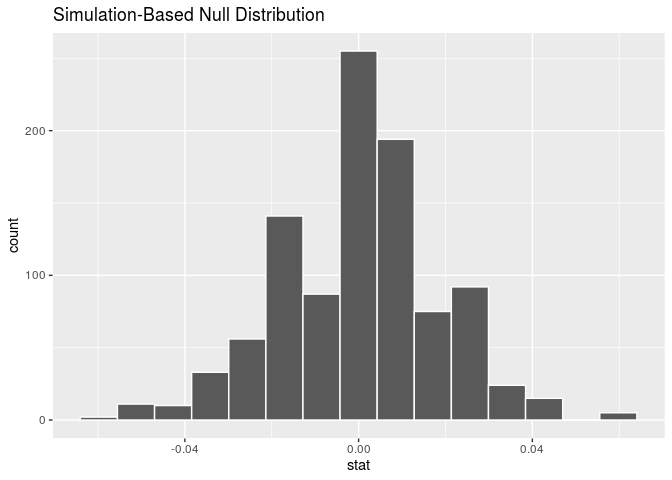
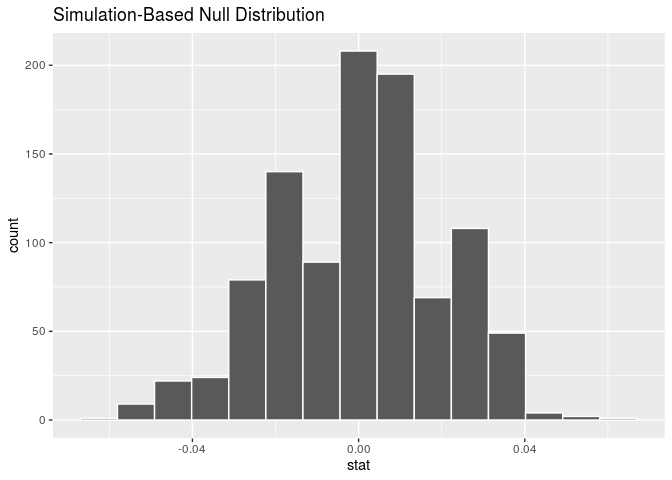
Finished Q2

diff --git a/data-analysis/data-analysis.md b/data-analysis/data-analysis.md
@@ -297,6 +297,7 @@ fct_africa <- africa %>%
 ```
 
 ``` r
+set.seed(1)
 null_dist <- fct_africa %>%
   specify(response = systemic_crisis, explanatory = independence, success = "1") %>%
   hypothesize(null = "independence") %>%
@@ -333,6 +334,22 @@ To answer this question, we need to label North African and sub-Saharan
 countries in our Africa dataset.
 
 ``` r
+fct_africa <- fct_africa %>%
+  mutate(region = case_when(
+    country == "Algeria" ~ "n",
+    country == "Angola" ~ "s",
+    country == "Central African Republic" ~ "s",
+    country == "Egypt" ~ "n",
+    country == "Ivory Coast" ~ "s",
+    country == "Kenya" ~ "s",
+    country == "Mauritius" ~ "s",
+    country == "Morocco" ~ "n",
+    country == "Nigeria" ~ "s",
+    country == "South Africa" ~ "s",
+    country == "Tunisia" ~ "n",
+    country == "Zambia" ~ "s",
+    country == "Zimbabwe" ~ "s"
+  ))
 africa <- africa %>%
   mutate(region = case_when(
     country == "Algeria" ~ "n",
@@ -367,7 +384,70 @@ african_gdps <- african_gdps %>%
   ))
 ```
 
-Let’s calculate the mean GDP and proportion of systemic crises for North
+Let’s calculate the median GDP for North African and sub-Saharan
+countries.
+
+When calculating GDP by region, we’ll use 2014 GDP data since it’s
+recent and available for all 13 African countries in our dataset.
+
+``` r
+african_gdps %>%
+  filter(year == 2014) %>%
+  group_by(region) %>%
+  summarise(avg_gdp = median(gdp))
+```
+
+    ## # A tibble: 2 x 2
+    ##   region       avg_gdp
+    ##   <chr>          <dbl>
+    ## 1 n      110081000000 
+    ## 2 s       44299338704.
+
+The average GDP for North African countries is $110,081,000,000; the
+average GDP for sub-Saharan countries is $44,299,338,704. The difference
+is $65,781,661,296.
+
+The first research question we’ll ask is: is there a difference in
+median GDP among all North African and sub-Saharan countries?
+
+Our null hypothesis is that the GDP of North African and sub-Saharan
+countries is the same; the observed difference is due to chance. Our
+alternative hypothesis is that the GDP of independent and
+non-independent African countries is different.
+
+Since we’re testing for independence, we’ll use permute.
+
+``` r
+set.seed(1)
+gdp_2014 <- african_gdps %>%
+  filter(year == 2014)
+
+null_dist2 <- gdp_2014 %>%
+  specify(response = gdp, explanatory = region) %>%
+  hypothesize(null = "independence") %>%
+  generate(1000, type = "permute") %>%
+  calculate(stat = "diff in medians", 
+            order = c("n", "s"))
+visualize(null_dist2)
+```
+
+![](data-analysis_files/figure-gfm/gdp-prop-diff-1.png)<!-- -->
+
+``` r
+get_p_value(null_dist2, obs_stat = 65781661296, direction = "two_sided")
+```
+
+    ## # A tibble: 1 x 1
+    ##   p_value
+    ##     <dbl>
+    ## 1   0.528
+
+Since our p-value of 0.528 is greater than our significance level of
+0.05, we fail to reject the null hypothesis. The data does not provide
+convincing evidence that there is a difference between the median GDP of
+North African countries comapred to sub-Saharan countries.
+
+Next, let’s calculate the proportion of systemic crises for North
 African and sub-Saharan countries.
 
 ``` r
@@ -386,53 +466,41 @@ The proportion of systemic crises for North African countries is 0.0436;
 the proportion of systemic crises for sub-Saharan countries is 0.0971.
 The difference is 0.0535702.
 
-When calculating GDP by region, we’ll use 2014 GDP data since it’s
-recent and available for all 13 African countries in our dataset.
+The second research question we’ll ask is: is there a difference in
+proportion of systemic crises between all North African and sub-Saharan
+countries?
 
-``` r
-african_gdps %>%
-  filter(year == 2014) %>%
-  group_by(region) %>%
-  summarise(avg_gdp = mean(gdp))
-```
-
-    ## # A tibble: 2 x 2
-    ##   region       avg_gdp
-    ##   <chr>          <dbl>
-    ## 1 n      123841108696 
-    ## 2 s      136252986316.
-
-The average GDP for North African countries is $123,841,108,696; the
-average GDP for sub-Saharan countries is $136,252,986,316. The
-difference is $12,411,877,620.
-
-The first research question we’ll ask is: is there a difference in GDP
-between North African and sub-Saharan countries?
-
-Our null hypothesis is that the GDP of North African and sub-Saharan
-countries is the same; the observed difference is due to chance Our
-alternative hypothesis is that the proportion of systemic crises between
-independent and non-independent African countries is different.
+Our null hypothesis is that the proportion of systemic crises between
+North African and sub-Saharan countries is the same; the observed
+difference is due to chance. Our alternative hypothesis is that the
+proportion of systemic crises between North African and sub-Saharan
+countries is different.
 
 Since we’re testing for independence, we’ll use permute.
 
 ``` r
-null_dist <- fct_africa %>%
-  specify(response = systemic_crisis, explanatory = independence, success = "1") %>%
+set.seed(1)
+null_dist3 <- fct_africa %>%
+  specify(response = systemic_crisis, explanatory = region, success = "1") %>%
   hypothesize(null = "independence") %>%
   generate(1000, type = "permute") %>%
   calculate(stat = "diff in props", 
-            order = c("1", "0"))
-visualize(null_dist)
+            order = c("n", "s"))
+visualize(null_dist3)
 ```
 
 ![](data-analysis_files/figure-gfm/region-prop-diff-1.png)<!-- -->
 
 ``` r
-get_p_value(null_dist, obs_stat = 0.094320737, direction = "two_sided")
+get_p_value(null_dist3, obs_stat = 0.0535702, direction = "two_sided")
 ```
 
     ## # A tibble: 1 x 1
     ##   p_value
     ##     <dbl>
     ## 1       0
+
+Since our p-value of 0 is less than the significance level of 0.05, we
+reject the null hypothesis. The data provides convincing evidence that
+there is a difference in proportion of systemic crises between North
+African countries and sub-Saharan countries.
